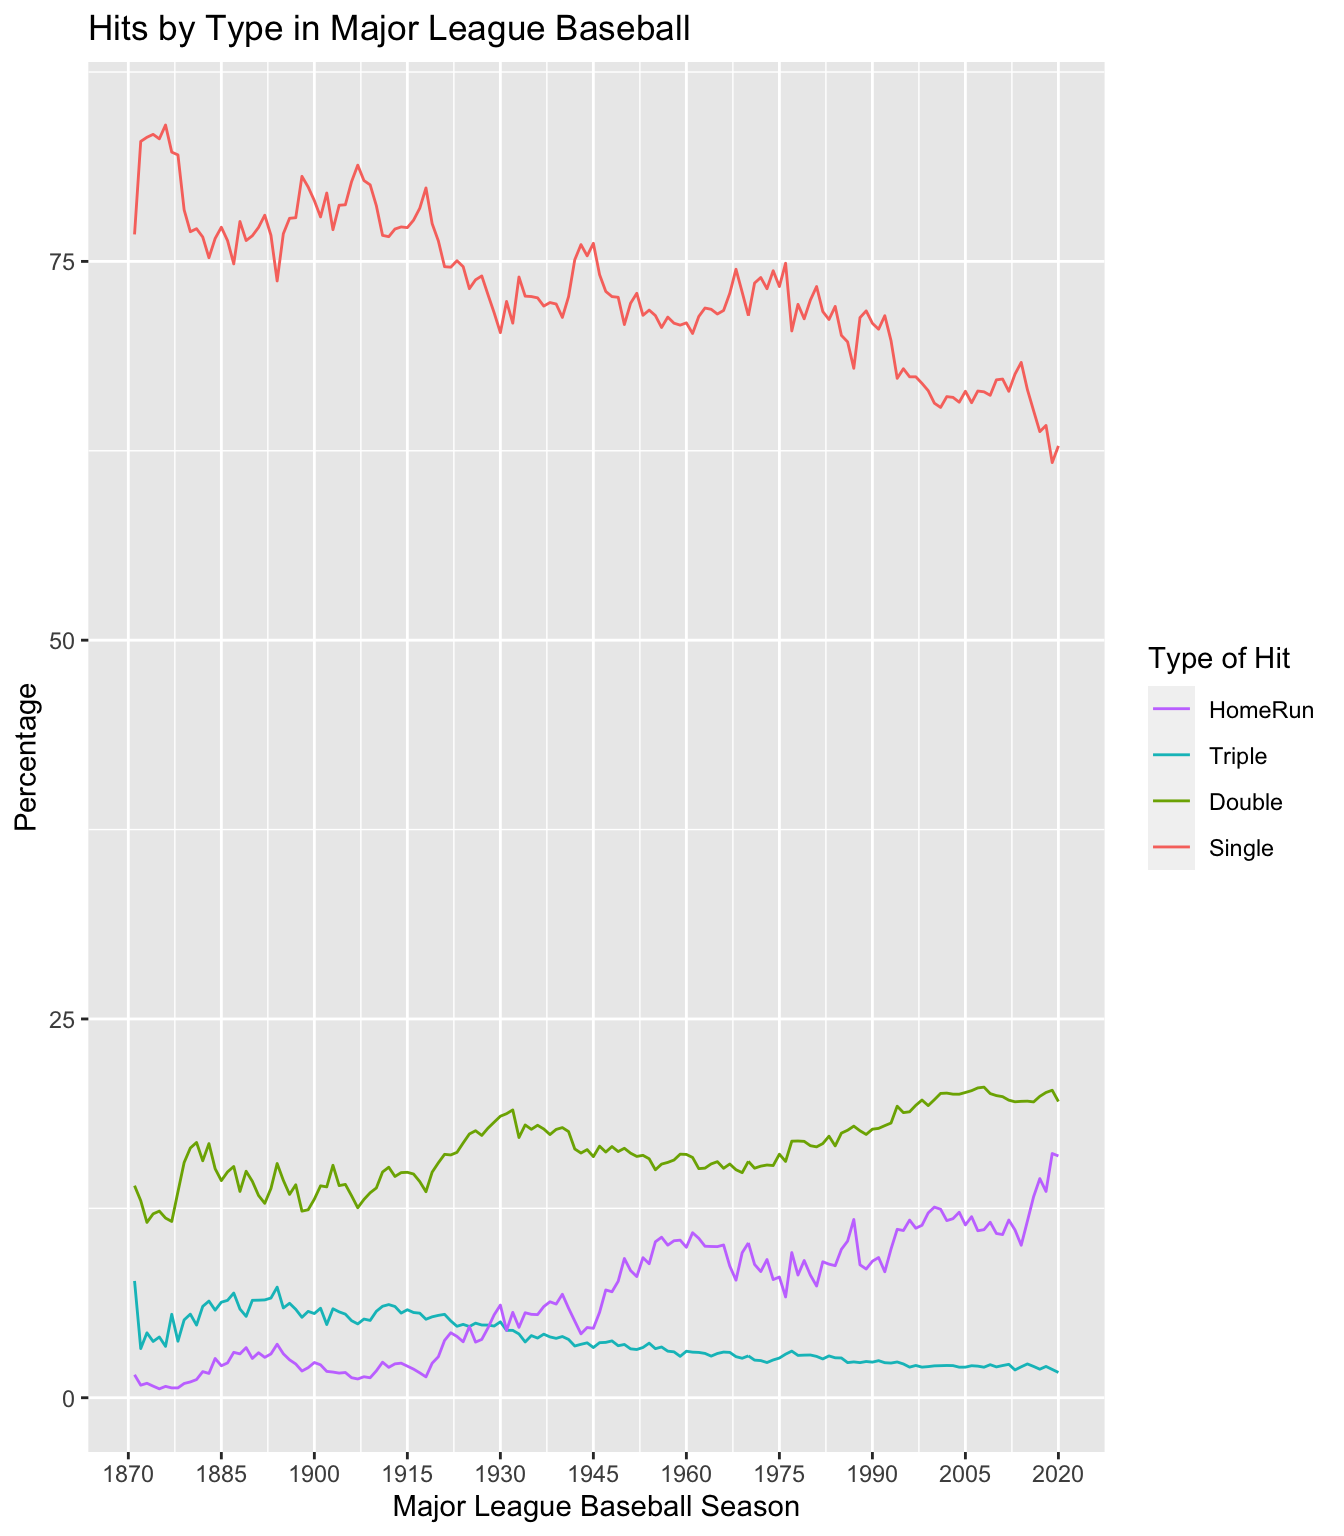
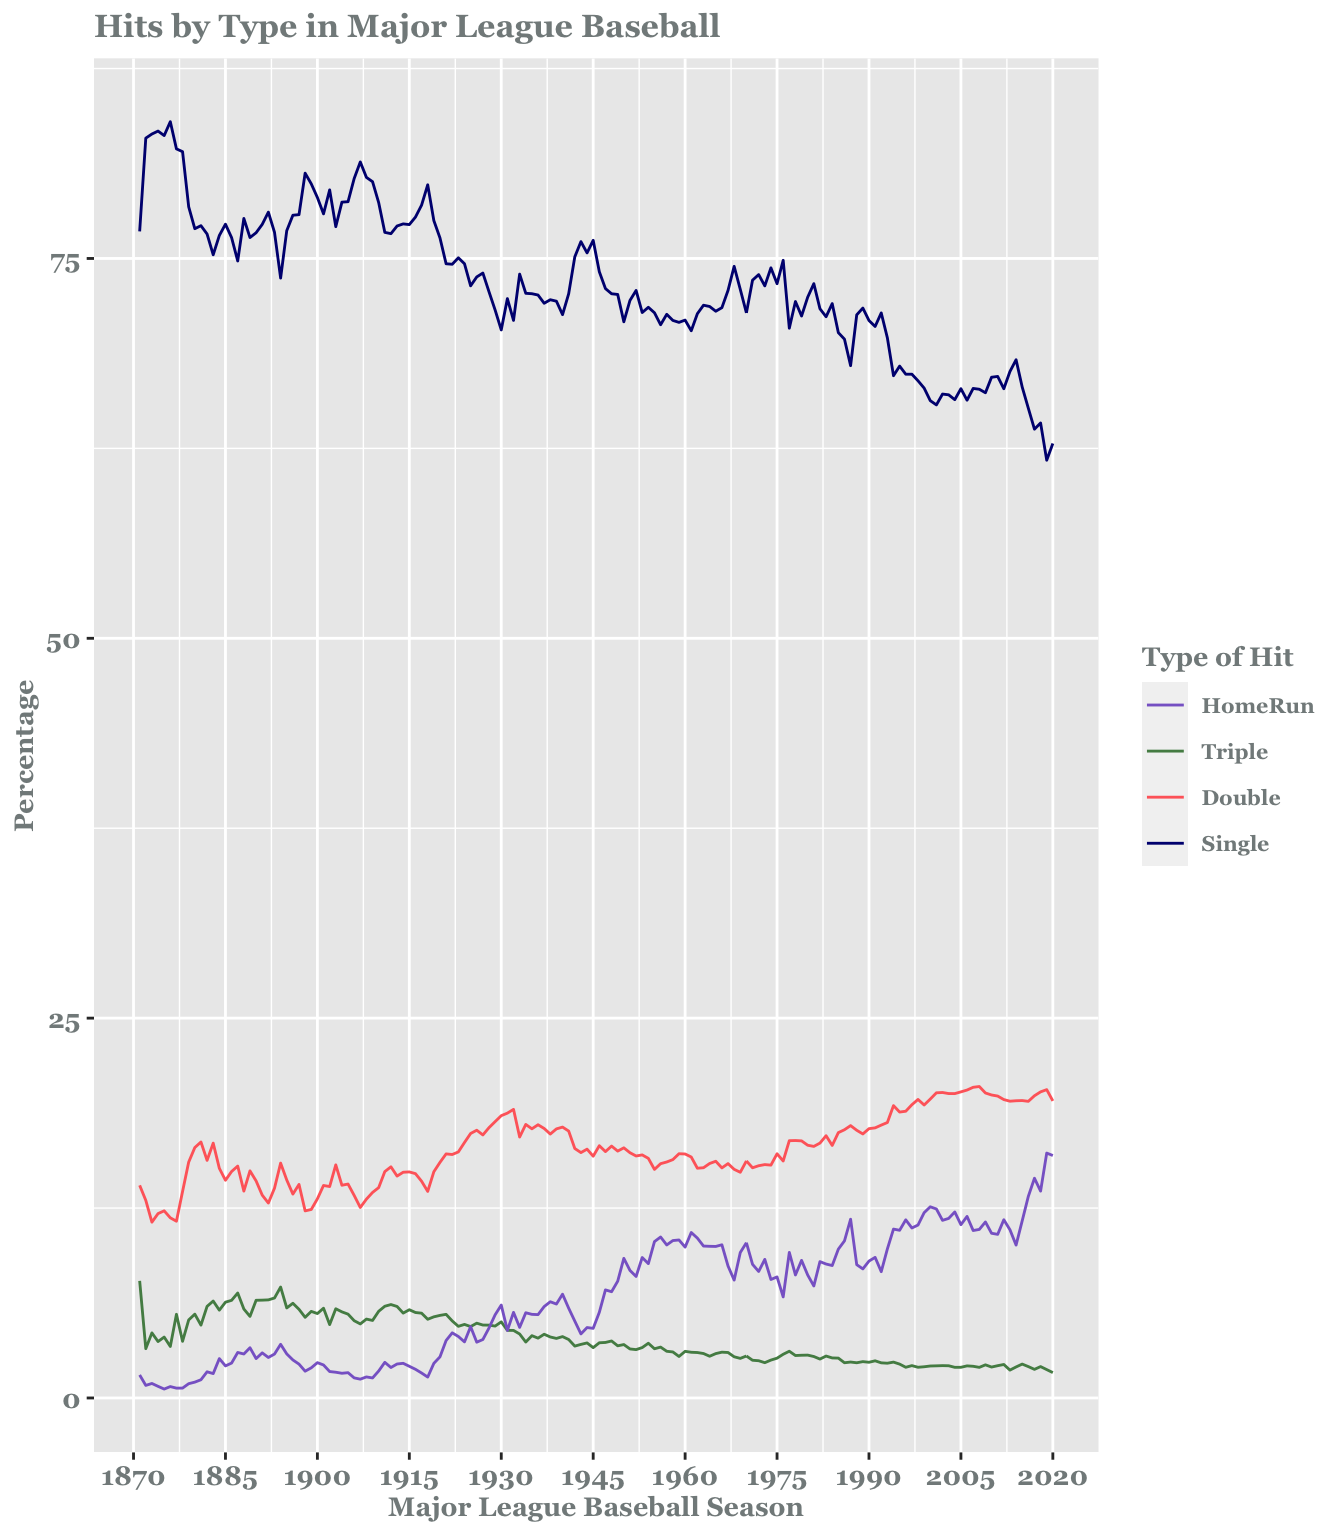
change colors

diff --git a/Poster/Poster.html b/Poster/Poster.html
@@ -23,71 +23,7 @@ Google fonts api stuff
 
 
 
-<<<<<<< HEAD
-<style type="text/css">a.sourceLine { display: inline-block; line-height: 1.25; }
-a.sourceLine { pointer-events: none; color: inherit; text-decoration: inherit; }
-a.sourceLine:empty { height: 1.2em; }
-.sourceCode { overflow: visible; }
-code.sourceCode { white-space: pre; position: relative; }
-div.sourceCode { margin: 1em 0; }
-pre.sourceCode { margin: 0; }
-@media screen {
-div.sourceCode { overflow: auto; }
-}
-@media print {
-code.sourceCode { white-space: pre-wrap; }
-a.sourceLine { text-indent: -1em; padding-left: 1em; }
-}
-pre.numberSource a.sourceLine
-  { position: relative; left: -4em; }
-pre.numberSource a.sourceLine::before
-  { content: attr(data-line-number);
-    position: relative; left: -1em; text-align: right; vertical-align: baseline;
-    border: none; pointer-events: all; display: inline-block;
-    -webkit-touch-callout: none; -webkit-user-select: none;
-    -khtml-user-select: none; -moz-user-select: none;
-    -ms-user-select: none; user-select: none;
-    padding: 0 4px; width: 4em;
-    color: #aaaaaa;
-  }
-pre.numberSource { margin-left: 3em; border-left: 1px solid #aaaaaa;  padding-left: 4px; }
-div.sourceCode
-  {  }
-@media screen {
-a.sourceLine::before { text-decoration: underline; }
-}
-code span.al { color: #ff0000; font-weight: bold; } /* Alert */
-code span.an { color: #60a0b0; font-weight: bold; font-style: italic; } /* Annotation */
-code span.at { color: #7d9029; } /* Attribute */
-code span.bn { color: #40a070; } /* BaseN */
-code span.bu { } /* BuiltIn */
-code span.cf { color: #007020; font-weight: bold; } /* ControlFlow */
-code span.ch { color: #4070a0; } /* Char */
-code span.cn { color: #880000; } /* Constant */
-code span.co { color: #60a0b0; font-style: italic; } /* Comment */
-code span.cv { color: #60a0b0; font-weight: bold; font-style: italic; } /* CommentVar */
-code span.do { color: #ba2121; font-style: italic; } /* Documentation */
-code span.dt { color: #902000; } /* DataType */
-code span.dv { color: #40a070; } /* DecVal */
-code span.er { color: #ff0000; font-weight: bold; } /* Error */
-code span.ex { } /* Extension */
-code span.fl { color: #40a070; } /* Float */
-code span.fu { color: #06287e; } /* Function */
-code span.im { } /* Import */
-code span.in { color: #60a0b0; font-weight: bold; font-style: italic; } /* Information */
-code span.kw { color: #007020; font-weight: bold; } /* Keyword */
-code span.op { color: #666666; } /* Operator */
-code span.ot { color: #007020; } /* Other */
-code span.pp { color: #bc7a00; } /* Preprocessor */
-code span.sc { color: #4070a0; } /* SpecialChar */
-code span.ss { color: #bb6688; } /* SpecialString */
-code span.st { color: #4070a0; } /* String */
-code span.va { color: #19177c; } /* Variable */
-code span.vs { color: #4070a0; } /* VerbatimString */
-code span.wa { color: #60a0b0; font-weight: bold; font-style: italic; } /* Warning */</style>
-=======
 
->>>>>>> a186cefce16fbcb8917cc6a8d2029428fa3662da
 
 <style>
 @page {
@@ -347,13 +283,8 @@ font-size: 20pt;
 <!-- Poster Title -->
 <div class= "poster_title">
 <h1 id="title">Generate Reproducible &amp; Live HTML and PDF Conference Posters Using RMarkdown</h1>
-<<<<<<< HEAD
-<h3 id="author">Frank Driscoll<sup>1, <a class="orcid" href="https://orcid.org/0000-0002-1099-3857"><img src="https://raw.githubusercontent.com/brentthorne/posterdown/master/images/orcid.jpg"></a></sup>, Cam Garfield<sup>2</sup>, Cole Guerin<sup></sup>, Hannah Hartnett<sup></sup></h3><br>
-<h5 id="affiliation"><sup>1</sup> Statistical Graphics, Colby College<br> <sup>2</sup> Department of Graphics and Layouts, University of Posters; Canada</h5>
-=======
 <h3 id="author">Frank Driscoll<sup>1</sup>, Cam Garfield<sup>1</sup>, Cole Guerin<sup>1</sup>, Hannah Hartnett<sup>1</sup></h3><br>
 <h5 id="affiliation"><sup>1</sup> Statistical Graphics, Colby College</h5>
->>>>>>> 269ab6c65c45e349b64c0554c7a5e300ad9c3b70
 </div>
 <!-- Right Logo  -->
 <div class="logo_right">
@@ -372,6 +303,7 @@ font-size: 20pt;
 ## 6   1876   Single 84.00150</code></pre>
 <p><img src="Poster_files/figure-html/unnamed-chunk-1-1.png" width="80%" style="display: block; margin: auto;" /></p>
 <p><img src="Poster_files/figure-html/unnamed-chunk-2-1.png" width="80%" style="display: block; margin: auto;" /></p>
+<p><img src="Poster_files/figure-html/unnamed-chunk-3-1.png" width="100%" style="display: block; margin: auto;" /></p>
 <div id="introduction" class="section level1">
 <h1>Introduction</h1>
 <div id="objectives" class="section level2">
@@ -383,195 +315,6 @@ font-size: 20pt;
 </div>
 <div id="results" class="section level1">
 <h1>Results</h1>
-<<<<<<< HEAD
-<p>Usually you want to have a nice table displaying some important results that you have calculated. In <code>posterdown</code> this is as easy as using the <code>kable</code> table formatting you are probably use to as per typical R Markdown formatting.</p>
-<p>You can reference tables like so: Table <a href="#tab:mytable">1</a>. Lorem ipsum dolor sit amet, consectetur adipiscing elit. Aliquam placerat augue at velit tincidunt semper. Donec elementum porta posuere. Nullam interdum, odio at tincidunt feugiat, turpis nisi blandit eros, eu posuere risus felis non quam. Nam eget lorem odio. Duis et aliquet orci. Phasellus nec viverra est.</p>
-<table>
-<caption>
-<span id="tab:mytable">Table 1: </span>Table caption.
-</caption>
-<thead>
-<tr>
-<th style="text-align:center;">
-Sepal.Length
-</th>
-<th style="text-align:center;">
-Sepal.Width
-</th>
-<th style="text-align:center;">
-Petal.Length
-</th>
-<th style="text-align:center;">
-Petal.Width
-</th>
-</tr>
-</thead>
-<tbody>
-<tr>
-<td style="text-align:center;">
-5.1
-</td>
-<td style="text-align:center;">
-3.5
-</td>
-<td style="text-align:center;">
-1.4
-</td>
-<td style="text-align:center;">
-0.2
-</td>
-</tr>
-<tr>
-<td style="text-align:center;">
-4.9
-</td>
-<td style="text-align:center;">
-3.0
-</td>
-<td style="text-align:center;">
-1.4
-</td>
-<td style="text-align:center;">
-0.2
-</td>
-</tr>
-<tr>
-<td style="text-align:center;">
-4.7
-</td>
-<td style="text-align:center;">
-3.2
-</td>
-<td style="text-align:center;">
-1.3
-</td>
-<td style="text-align:center;">
-0.2
-</td>
-</tr>
-<tr>
-<td style="text-align:center;">
-4.6
-</td>
-<td style="text-align:center;">
-3.1
-</td>
-<td style="text-align:center;">
-1.5
-</td>
-<td style="text-align:center;">
-0.2
-</td>
-</tr>
-<tr>
-<td style="text-align:center;">
-5.0
-</td>
-<td style="text-align:center;">
-3.6
-</td>
-<td style="text-align:center;">
-1.4
-</td>
-<td style="text-align:center;">
-0.2
-</td>
-</tr>
-<tr>
-<td style="text-align:center;">
-5.4
-</td>
-<td style="text-align:center;">
-3.9
-</td>
-<td style="text-align:center;">
-1.7
-</td>
-<td style="text-align:center;">
-0.4
-</td>
-</tr>
-<tr>
-<td style="text-align:center;">
-4.6
-</td>
-<td style="text-align:center;">
-3.4
-</td>
-<td style="text-align:center;">
-1.4
-</td>
-<td style="text-align:center;">
-0.3
-</td>
-</tr>
-<tr>
-<td style="text-align:center;">
-5.0
-</td>
-<td style="text-align:center;">
-3.4
-</td>
-<td style="text-align:center;">
-1.5
-</td>
-<td style="text-align:center;">
-0.2
-</td>
-</tr>
-<tr>
-<td style="text-align:center;">
-4.4
-</td>
-<td style="text-align:center;">
-2.9
-</td>
-<td style="text-align:center;">
-1.4
-</td>
-<td style="text-align:center;">
-0.2
-</td>
-</tr>
-<tr>
-<td style="text-align:center;">
-4.9
-</td>
-<td style="text-align:center;">
-3.1
-</td>
-<td style="text-align:center;">
-1.5
-</td>
-<td style="text-align:center;">
-0.1
-</td>
-</tr>
-</tbody>
-</table>
-<p>Or with figures: Figure <a href="#fig:standard-plot">1</a>, or Figure <a href="#fig:morefigs">2</a>.</p>
-<div class="figure" style="text-align: center"><span id="fig:standard-plot"></span>
-<img src="Poster_files/figure-html/standard-plot-1.png" alt="Great figure!" width="80%" />
-<p class="caption">
-Figure 1: Great figure!
-</p>
-</div>
-<div class="sourceCode" id="cb1"><pre class="sourceCode r"><code class="sourceCode r"><a class="sourceLine" id="cb1-1" data-line-number="1">data &lt;-<span class="st"> </span>iris</a>
-<a class="sourceLine" id="cb1-2" data-line-number="2"></a>
-<a class="sourceLine" id="cb1-3" data-line-number="3"><span class="kw">plot</span>(<span class="dt">x =</span> data<span class="op">$</span>Sepal.Length, </a>
-<a class="sourceLine" id="cb1-4" data-line-number="4">     <span class="dt">y =</span> data<span class="op">$</span>Sepal.Width, </a>
-<a class="sourceLine" id="cb1-5" data-line-number="5">     <span class="dt">col =</span> data<span class="op">$</span>Species,</a>
-<a class="sourceLine" id="cb1-6" data-line-number="6">     <span class="dt">pch =</span> <span class="dv">19</span>, </a>
-<a class="sourceLine" id="cb1-7" data-line-number="7">     <span class="dt">xlab =</span> <span class="st">&quot;Sepal Length (cm)&quot;</span>,</a>
-<a class="sourceLine" id="cb1-8" data-line-number="8">     <span class="dt">ylab =</span> <span class="st">&quot;Sepal Width (cm)&quot;</span>)</a></code></pre></div>
-<div class="figure"><span id="fig:morefigs"></span>
-<img src="Poster_files/figure-html/morefigs-1.png" alt="Amazing, right?!" width="80%" />
-<p class="caption">
-Figure 2: Amazing, right?!
-</p>
-</div>
-=======
->>>>>>> a186cefce16fbcb8917cc6a8d2029428fa3662da
 </div>
 <div id="next-steps" class="section level1">
 <h1>Next Steps</h1>
@@ -582,20 +325,6 @@ Figure 2: Amazing, right?!
 </div>
 <div id="references" class="section level1">
 <h1>References</h1>
-<<<<<<< HEAD
-<div id="refs" class="references">
-<div id="ref-R-rmarkdown">
-<p>Allaire, JJ, Yihui Xie, Jonathan McPherson, Javier Luraschi, Kevin Ushey, Aron Atkins, Hadley Wickham, Joe Cheng, Winston Chang, and Richard Iannone. 2021. <em>Rmarkdown: Dynamic Documents for R</em>. <a href="https://CRAN.R-project.org/package=rmarkdown">https://CRAN.R-project.org/package=rmarkdown</a>.</p>
-</div>
-<div id="ref-R-posterdown">
-<p>Thorne, Brent. 2019. <em>Posterdown: Generate Pdf Conference Posters Using R Markdown</em>. <a href="https://CRAN.R-project.org/package=posterdown">https://CRAN.R-project.org/package=posterdown</a>.</p>
-</div>
-<div id="ref-R-pagedown">
-<p>Xie, Yihui, Romain Lesur, Brent Thorne, and Xianying Tan. 2021. <em>Pagedown: Paginate the Html Output of R Markdown with Css for Print</em>. <a href="https://CRAN.R-project.org/package=pagedown">https://CRAN.R-project.org/package=pagedown</a>.</p>
-</div>
-</div>
-=======
->>>>>>> a186cefce16fbcb8917cc6a8d2029428fa3662da
 </div>
 </div>
 </div>
